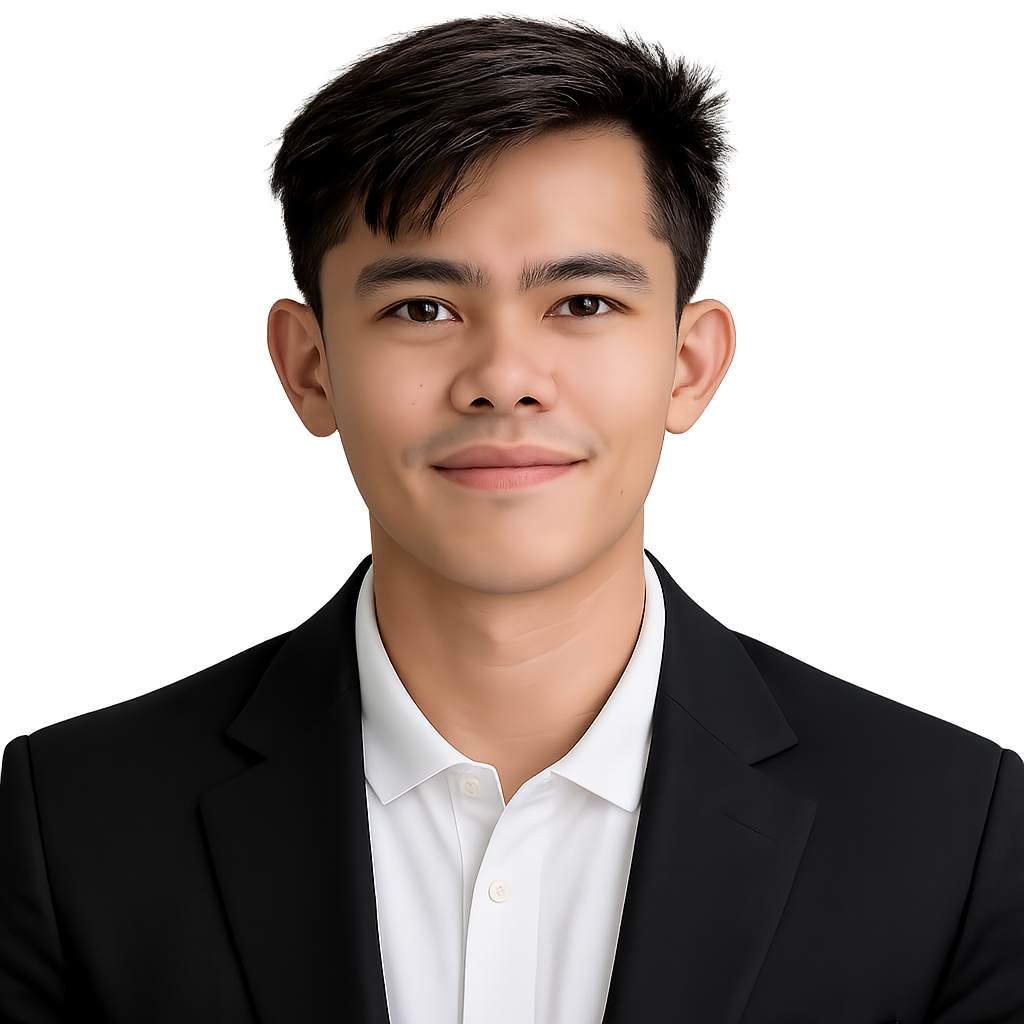
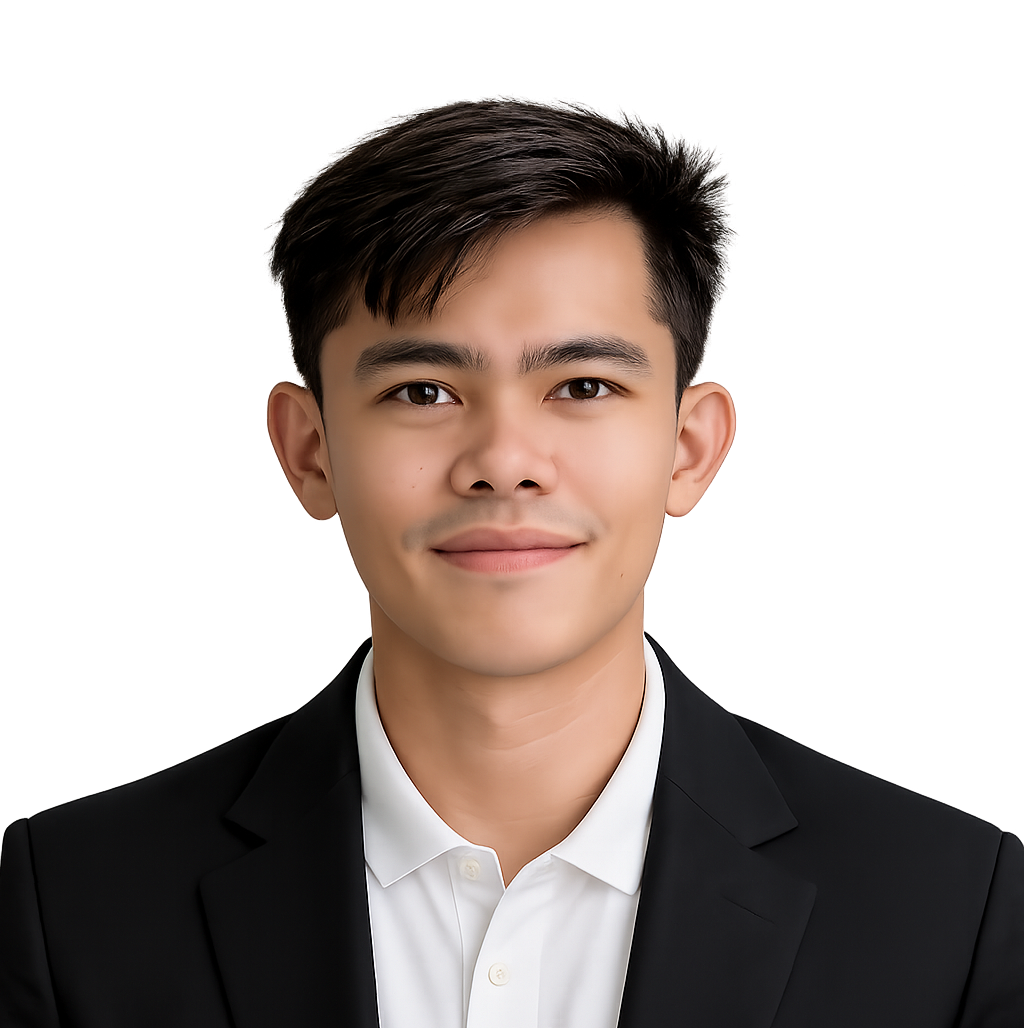
animated job titles

Changed region(s): [[0.0, 0.0, 1.0, 1.0], [0.9062, 0.9062, 0.9375, 1.0]]

diff --git a/src/components/Hero.tsx b/src/components/Hero.tsx
@@ -1,6 +1,85 @@
+import { useEffect, useState } from 'react';
 import profileImg from '../assets/profile.png';
 
-// SVG icon components
+// ── Typing Animation Component ─────────────────────────────────────────────
+
+const roles = [
+  'Junior Internal Auditor',
+  'Data Analyst',
+  'Accounting Specialist',
+  'Inventory Accountant',
+  'Bookkeeper',
+];
+
+interface TypingAnimationProps {
+  typingSpeed?: number;   // ms per character while typing
+  deletingSpeed?: number; // ms per character while deleting
+  pauseDelay?: number;    // ms to pause after fully typed
+}
+
+function TypingAnimation({
+  typingSpeed = 80,
+  deletingSpeed = 45,
+  pauseDelay = 2200,
+}: TypingAnimationProps) {
+  const [displayed, setDisplayed] = useState('');
+  const [roleIndex, setRoleIndex] = useState(0);
+  const [isDeleting, setIsDeleting] = useState(false);
+  const [isPaused, setIsPaused] = useState(false);
+
+  useEffect(() => {
+    const current = roles[roleIndex];
+
+    if (isPaused) {
+      const timer = setTimeout(() => {
+        setIsPaused(false);
+        setIsDeleting(true);
+      }, pauseDelay);
+      return () => clearTimeout(timer);
+    }
+
+    if (!isDeleting) {
+      if (displayed.length < current.length) {
+        const timer = setTimeout(() => {
+          setDisplayed(current.slice(0, displayed.length + 1));
+        }, typingSpeed);
+        return () => clearTimeout(timer);
+      } else {
+        setIsPaused(true);
+      }
+    } else {
+      if (displayed.length > 0) {
+        const timer = setTimeout(() => {
+          setDisplayed(current.slice(0, displayed.length - 1));
+        }, deletingSpeed);
+        return () => clearTimeout(timer);
+      } else {
+        setIsDeleting(false);
+        setRoleIndex(prev => (prev + 1) % roles.length);
+      }
+    }
+  }, [displayed, isDeleting, isPaused, roleIndex, typingSpeed, deletingSpeed, pauseDelay]);
+
+  return (
+    <h2 style={{ display: 'inline-flex', alignItems: 'center', gap: '2px', minHeight: '1.4em' }}>
+      <span>{displayed}</span>
+      <span
+        style={{
+          display: 'inline-block',
+          width: '2px',
+          height: '1em',
+          background: 'var(--accent-primary, #00f5d4)',
+          marginLeft: '2px',
+          verticalAlign: 'middle',
+          animation: 'blink 1s step-start infinite',
+        }}
+      />
+    </h2>
+  );
+}
+
+// ── SVG icon components ────────────────────────────────────────────────────
+
 const FacebookIcon = () => (
   <svg width="20" height="20" viewBox="0 0 24 24" fill="currentColor" xmlns="http://www.w3.org/2000/svg">
     <path d="M18 2h-3a5 5 0 0 0-5 5v3H7v4h3v8h4v-8h3l1-4h-4V7a1 1 0 0 1 1-1h3z"/>
@@ -8,7 +87,7 @@ const FacebookIcon = () => (
 );
 
 const InstagramIcon = () => (
-  <svg width="20" height="20" viewBox="0 0 24 24" fill="none" stroke="currentColor" strokeWidth="2" strokeLinecap="round" strokeLinejoin="round" xmlns="http://www.w3.org/2000/svg">
+  <svg width="20" height="20" viewBox="0 0 24 24" fill="none" stroke="currentColor" strokeWidth="2" strokeLinecap="round" strokeLinejoin="round">
     <rect x="2" y="2" width="20" height="20" rx="5" ry="5"/>
     <circle cx="12" cy="12" r="4"/>
     <circle cx="17.5" cy="6.5" r="0.5" fill="currentColor" stroke="none"/>
@@ -16,7 +95,7 @@ const InstagramIcon = () => (
 );
 
 const LinkedInIcon = () => (
-  <svg width="20" height="20" viewBox="0 0 24 24" fill="currentColor" xmlns="http://www.w3.org/2000/svg">
+  <svg width="20" height="20" viewBox="0 0 24 24" fill="currentColor">
     <path d="M16 8a6 6 0 0 1 6 6v7h-4v-7a2 2 0 0 0-2-2 2 2 0 0 0-2 2v7h-4v-7a6 6 0 0 1 6-6z"/>
     <rect x="2" y="9" width="4" height="12"/>
     <circle cx="4" cy="4" r="2"/>
@@ -24,50 +103,68 @@ const LinkedInIcon = () => (
 );
 
 const TwitterXIcon = () => (
-  <svg width="20" height="20" viewBox="0 0 24 24" fill="currentColor" xmlns="http://www.w3.org/2000/svg">
+  <svg width="20" height="20" viewBox="0 0 24 24" fill="currentColor">
     <path d="M18.244 2.25h3.308l-7.227 8.26 8.502 11.24H16.17l-5.214-6.817L4.99 21.75H1.68l7.73-8.835L1.254 2.25H8.08l4.713 6.231zm-1.161 17.52h1.833L7.084 4.126H5.117z"/>
   </svg>
 );
 
+// ── Hero ───────────────────────────────────────────────────────────────────
+
 export default function Hero() {
   return (
-    <section className="hero" id="home">
-      <div className="hero-container">
-        <div className="hero-content">
-          <h1>Andrian Dayag</h1>
-          <h2>Junior Internal Auditor</h2>
-          <p>
-            Detail-oriented auditor with hands-on experience in inventory audits, variance analysis,
-            and financial statement audit of inventory accounts under a centralized audit function.
-            Strong background in accounts payable and operational finance, with advanced proficiency
-            in Microsoft Excel and working knowledge of Power BI.
-          </p>
-          <div className="hero-buttons">
-            <a href="#contact" className="btn btn-primary"
-              onClick={e => { e.preventDefault(); document.querySelector('#contact')?.scrollIntoView({ behavior: 'smooth' }); }}>
-              Get In Touch
-            </a>
-            <a href="/resume.pdf" className="btn" download="Andrian_Dayag_Resume.pdf">Download CV</a>
-          </div>
-          <div className="social-links">
-            <a href="#" aria-label="Facebook"><FacebookIcon /></a>
-            <a href="#" aria-label="Twitter / X"><TwitterXIcon /></a>
-            <a href="#" aria-label="Instagram"><InstagramIcon /></a>
-            <a href="#" aria-label="LinkedIn"><LinkedInIcon /></a>
-          </div>
-        </div>
+    <>
+      <style>{`
+        @keyframes blink {
+          0%, 100% { opacity: 1; }
+          50%       { opacity: 0; }
+        }
+      `}</style>
 
-        <div className="hero-image">
-          <div className="hexagon-container" style={{ animation: 'floatUpDown 4s ease-in-out infinite' }}>
-            <div className="glow-effect" />
-            <div className="hexagon">
-              <div className="hexagon-inner">
-                <img src={profileImg} alt="Andrian Dayag" className="profile-img" />
+      <section className="hero" id="home">
+        <div className="hero-container">
+          <div className="hero-content">
+            <h1>Andrian Dayag</h1>
+            <TypingAnimation typingSpeed={75} deletingSpeed={40} pauseDelay={2500} />
+            <p>
+              Detail-oriented auditor with hands-on experience in inventory audits, variance analysis,
+              and financial statement audit of inventory accounts under a centralized audit function.
+              Strong background in accounts payable and operational finance, with advanced proficiency
+              in Microsoft Excel and working knowledge of Power BI.
+            </p>
+            <div className="hero-buttons">
+              <a
+                href="#contact"
+                className="btn btn-primary"
+                onClick={e => { e.preventDefault(); document.querySelector('#contact')?.scrollIntoView({ behavior: 'smooth' }); }}
+              >
+                Get In Touch
+              </a>
+              <a href="/resume.pdf" className="btn" download="Andrian_Dayag_Resume.pdf">Download CV</a>
+            </div>
+            <div className="social-links">
+              <a href="#" aria-label="Facebook"><FacebookIcon /></a>
+              <a href="#" aria-label="Twitter / X"><TwitterXIcon /></a>
+              <a href="#" aria-label="Instagram"><InstagramIcon /></a>
+              <a href="#" aria-label="LinkedIn"><LinkedInIcon /></a>
+            </div>
+          </div>
+
+          <div className="hero-image">
+            <div className="hexagon-container" style={{ animation: 'floatUpDown 4s ease-in-out infinite' }}>
+              <div className="glow-effect" />
+              <div className="hexagon">
+                <div className="hexagon-inner">
+                  <img
+                    src={profileImg}
+                    alt="Andrian Dayag"
+                    className="profile-img"
+                  />
+                </div>
               </div>
             </div>
           </div>
         </div>
-      </div>
-    </section>
+      </section>
+    </>
   );
 }

diff --git a/src/components/Herobak2.tsx b/src/components/Herobak2.tsx
@@ -1,0 +1,73 @@
+import profileImg from '../assets/profile.png';
+
+// SVG icon components
+const FacebookIcon = () => (
+  <svg width="20" height="20" viewBox="0 0 24 24" fill="currentColor" xmlns="http://www.w3.org/2000/svg">
+    <path d="M18 2h-3a5 5 0 0 0-5 5v3H7v4h3v8h4v-8h3l1-4h-4V7a1 1 0 0 1 1-1h3z"/>
+  </svg>
+);
+
+const InstagramIcon = () => (
+  <svg width="20" height="20" viewBox="0 0 24 24" fill="none" stroke="currentColor" strokeWidth="2" strokeLinecap="round" strokeLinejoin="round" xmlns="http://www.w3.org/2000/svg">
+    <rect x="2" y="2" width="20" height="20" rx="5" ry="5"/>
+    <circle cx="12" cy="12" r="4"/>
+    <circle cx="17.5" cy="6.5" r="0.5" fill="currentColor" stroke="none"/>
+  </svg>
+);
+
+const LinkedInIcon = () => (
+  <svg width="20" height="20" viewBox="0 0 24 24" fill="currentColor" xmlns="http://www.w3.org/2000/svg">
+    <path d="M16 8a6 6 0 0 1 6 6v7h-4v-7a2 2 0 0 0-2-2 2 2 0 0 0-2 2v7h-4v-7a6 6 0 0 1 6-6z"/>
+    <rect x="2" y="9" width="4" height="12"/>
+    <circle cx="4" cy="4" r="2"/>
+  </svg>
+);
+
+const TwitterXIcon = () => (
+  <svg width="20" height="20" viewBox="0 0 24 24" fill="currentColor" xmlns="http://www.w3.org/2000/svg">
+    <path d="M18.244 2.25h3.308l-7.227 8.26 8.502 11.24H16.17l-5.214-6.817L4.99 21.75H1.68l7.73-8.835L1.254 2.25H8.08l4.713 6.231zm-1.161 17.52h1.833L7.084 4.126H5.117z"/>
+  </svg>
+);
+
+export default function Hero() {
+  return (
+    <section className="hero" id="home">
+      <div className="hero-container">
+        <div className="hero-content">
+          <h1>Andrian Dayag</h1>
+          <h2>Junior Internal Auditor</h2>
+          <p>
+            Detail-oriented auditor with hands-on experience in inventory audits, variance analysis,
+            and financial statement audit of inventory accounts under a centralized audit function.
+            Strong background in accounts payable and operational finance, with advanced proficiency
+            in Microsoft Excel and working knowledge of Power BI.
+          </p>
+          <div className="hero-buttons">
+            <a href="#contact" className="btn btn-primary"
+              onClick={e => { e.preventDefault(); document.querySelector('#contact')?.scrollIntoView({ behavior: 'smooth' }); }}>
+              Get In Touch
+            </a>
+            <a href="/resume.pdf" className="btn" download="Andrian_Dayag_Resume.pdf">Download CV</a>
+          </div>
+          <div className="social-links">
+            <a href="#" aria-label="Facebook"><FacebookIcon /></a>
+            <a href="#" aria-label="Twitter / X"><TwitterXIcon /></a>
+            <a href="#" aria-label="Instagram"><InstagramIcon /></a>
+            <a href="#" aria-label="LinkedIn"><LinkedInIcon /></a>
+          </div>
+        </div>
+
+        <div className="hero-image">
+          <div className="hexagon-container" style={{ animation: 'floatUpDown 4s ease-in-out infinite' }}>
+            <div className="glow-effect" />
+            <div className="hexagon">
+              <div className="hexagon-inner">
+                <img src={profileImg} alt="Andrian Dayag" className="profile-img" />
+              </div>
+            </div>
+          </div>
+        </div>
+      </div>
+    </section>
+  );
+}

diff --git a/src/index.css b/src/index.css
@@ -344,9 +344,11 @@ nav {
 }
 
 .profile-img {
-  width: 95%;
-  height: 95%;
+  width: 110%;
+  height: 110%;
   object-fit: cover;
+  object-position: center top;
+  transform: scale(0.88);
   clip-path: polygon(50% 0%, 100% 25%, 100% 75%, 50% 100%, 0% 75%, 0% 25%);
   z-index: 2;
 }
